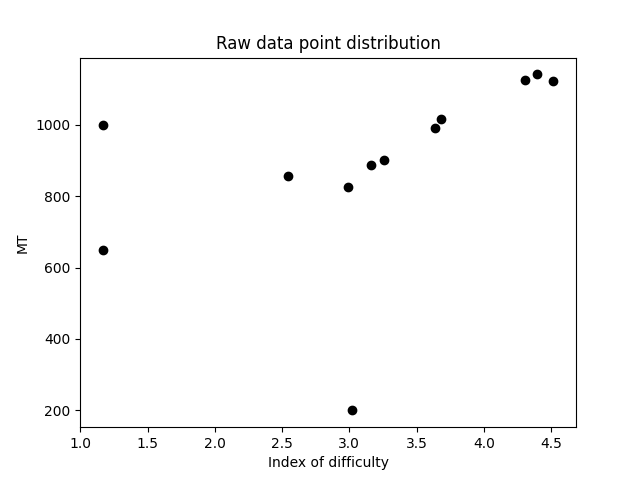
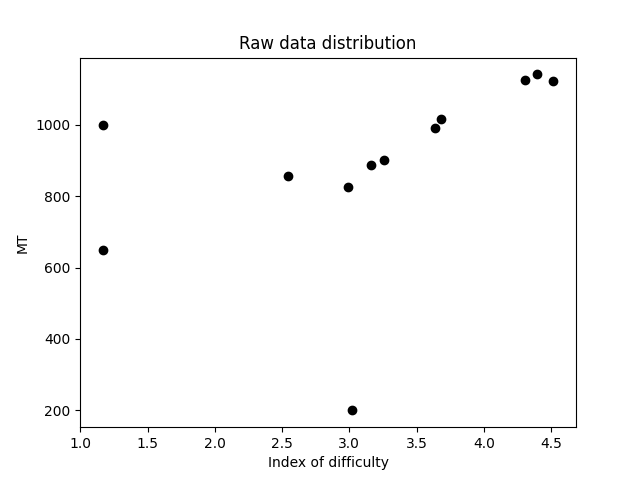
init

Changed region(s): [[0.3438, 0.0625, 0.6875, 0.125]]

diff --git a/simple_fitts_law.py b/simple_fitts_law.py
@@ -6,17 +6,18 @@ import math
 csv_file = open('study_data.csv', "r")
 distance = []
 width = []
-index_difficulty = []
-c_time = []
+index_difficulty = [] # index of difficulty
+c_time = []           # completion time (or movement time)
 data =[]
 
-# Read csv file
+## Read csv file
 for line in csv_file:
     this_line = line.replace("\n","").split(",")
     this_line = [float(i) for i in this_line]
     distance.append(this_line[0])
     width.append(this_line[1])
     width.append(this_line[1])
+    # Calculate Index of Difficulty
     i_d = math.log(this_line[0] / this_line[1] +1 ,2)
     index_difficulty.append(i_d)
     c_time.append(this_line[2])
@@ -24,7 +25,7 @@ for line in csv_file:
 data = np.array([index_difficulty, c_time])
 x, y = data[0], data[1]
 plt.scatter(x, y, color='black')
-plt.title('Raw data point distribution')
+plt.title('Raw data distribution')
 plt.xlabel('Index of difficulty')
 plt.ylabel('MT')
 plt.savefig('raw_data.png')
@@ -134,7 +135,7 @@ print ("Red dots are the", inliers_n, "inliers contributes the final fitting, an
 plt.plot(inliers_x, model.predict(inliers_x), color='black')
 plt.scatter(inliers_final[0], inliers_final[1], color = 'black')
 plt.scatter(outliers_final[0], outliers_final[1], color = 'red')
-plt.title('Final point distribution')
+plt.title('Final distribution')
 plt.xlabel('Index of difficulty')
 plt.ylabel('MT')
 plt.savefig('fitts_law.png')

diff --git a/README.md b/README.md
@@ -2,6 +2,10 @@
 
 File study_data.csv contains part of the actual study result from Berkeley Fitts Law Dataset (http://automation.berkeley.edu/fitts-dataset/). The code shows how the Fitts' Law coefficients are calculated and visualize the results. 
 
+The calculation is based on wikipedia. In particular the version of Prof. Scott MacKenzie:
+
+${f(x)=a_nx^n+a_{n-1}x^{n-1}+a_{n-2}x^{n-2}}+\cdots$
+
 ## Running the program 
 
 sklearn is required. Then run: 
